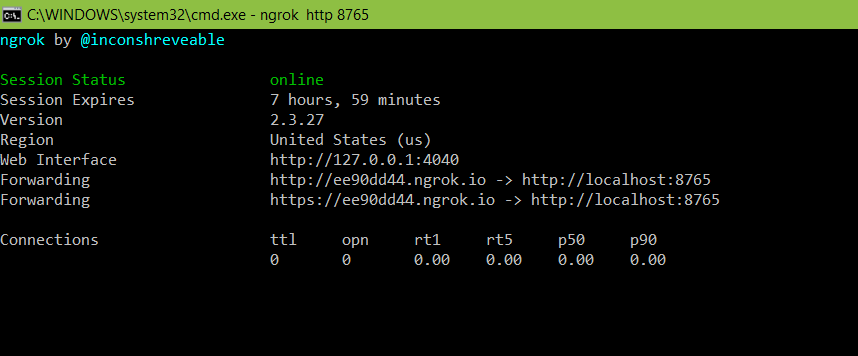
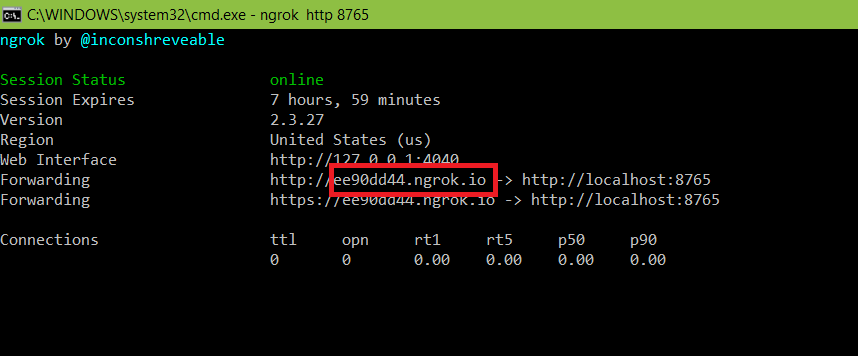
Added images to readme

Changed region(s): [[0.3636, 0.4326, 0.6061, 0.5562]]

diff --git a/README.md b/README.md
@@ -12,21 +12,30 @@ _Anonymizer_ is a Python package that generates fake data for you. It internally
         \/     \/            \/     \/     \/          \/                   \/     \/      \/     \/
 ```
 
+[//]: # (Image References)
+
+[image1]: ./images/pygame_window.png "Pygame Window"
+[image2]: ./images/pygame_window_selection.png "Pygame Window Selection"
+[image3]: ./images/ngrok.png "ngrok"
+
 ## Basic Usage
 
 ### Start Screen Streaming Server
 - Run `python screen_streaming_server.py`
 - You will have 2 seconds to ensure that the windows on your screen are what you would like to capture.
 - A new pygame window pops up in which a screenshot of your screen is displayed.
+	![Pygame Window][image1]
 - You will now have to draw a bounding box around your area of interest. To begin, click on a point in this screenshot to indicate the top-left corner of your bounding box. You will now see a gray overlay on the image.
-- Move your mouse cursor to adjust the width and height of the rectangle, and once you are satisfied, click once again to indicate the bottom-right point of your bounding box. 
-- Minimize the pygame window. 
+- Move your mouse cursor to adjust the width and height of the rectangle, and once you are satisfied, click once again to indicate the bottom-right point of your bounding box.
+	![Pygame Window Selection][image2]
+- Minimize the pygame window.
 - You should now see a "Starting Server" message along with bounding box coordinates in your console.
 
 ### Expose Public URL
 - The server will be accessible at `localhost:8765` via a websocket, so, in order to access this websocket remotely, you will have to expose a public URL using ngrok.
 - Visit [https://ngrok.com/](https://ngrok.com/) to download and install ngrok
-- After installation, run `ngrok http 8765` from a new command prompt and note the first part of the forward URL in the screen that shows up. 
+- After installation, run `ngrok http 8765` from a new command prompt and note the first part of the forward URL in the screen that shows up.
+	![ngrok][image3]
 
 ### Run Screen Streaming Client remotely
 - In your remote system, run `python screen_streaming_client.py --host ws://ee90dd44.ngrok.io --run_once=False --time-period=2`
@@ -36,7 +45,10 @@ _Anonymizer_ is a Python package that generates fake data for you. It internally
 - Add your custom business logic to the `performOperation` method in `screen_streaming_client.py`
 
 ### Run Screen Streaming Client in Google Colaboratory
-- Open [https://colab.research.google.com](https://colab.research.google.com/) 
+- Open [https://colab.research.google.com](https://colab.research.google.com/)
 - Navigate to `File > Open Notebook` and select the GITHUB tab
-- Enter the following URL - <URL>
+- Enter the following URL - [https://github.com/samiriff/screen-streamer/blob/master/google_colab_sample.ipynb](https://github.com/samiriff/screen-streamer/blob/master/google_colab_sample.ipynb) in the text field to open and run this notebook.
 - Follow the instructions in the notebook to perform custom operations on the image retrieved from your local web socket.
+
+## Contributors
+- Samir Sheriff
